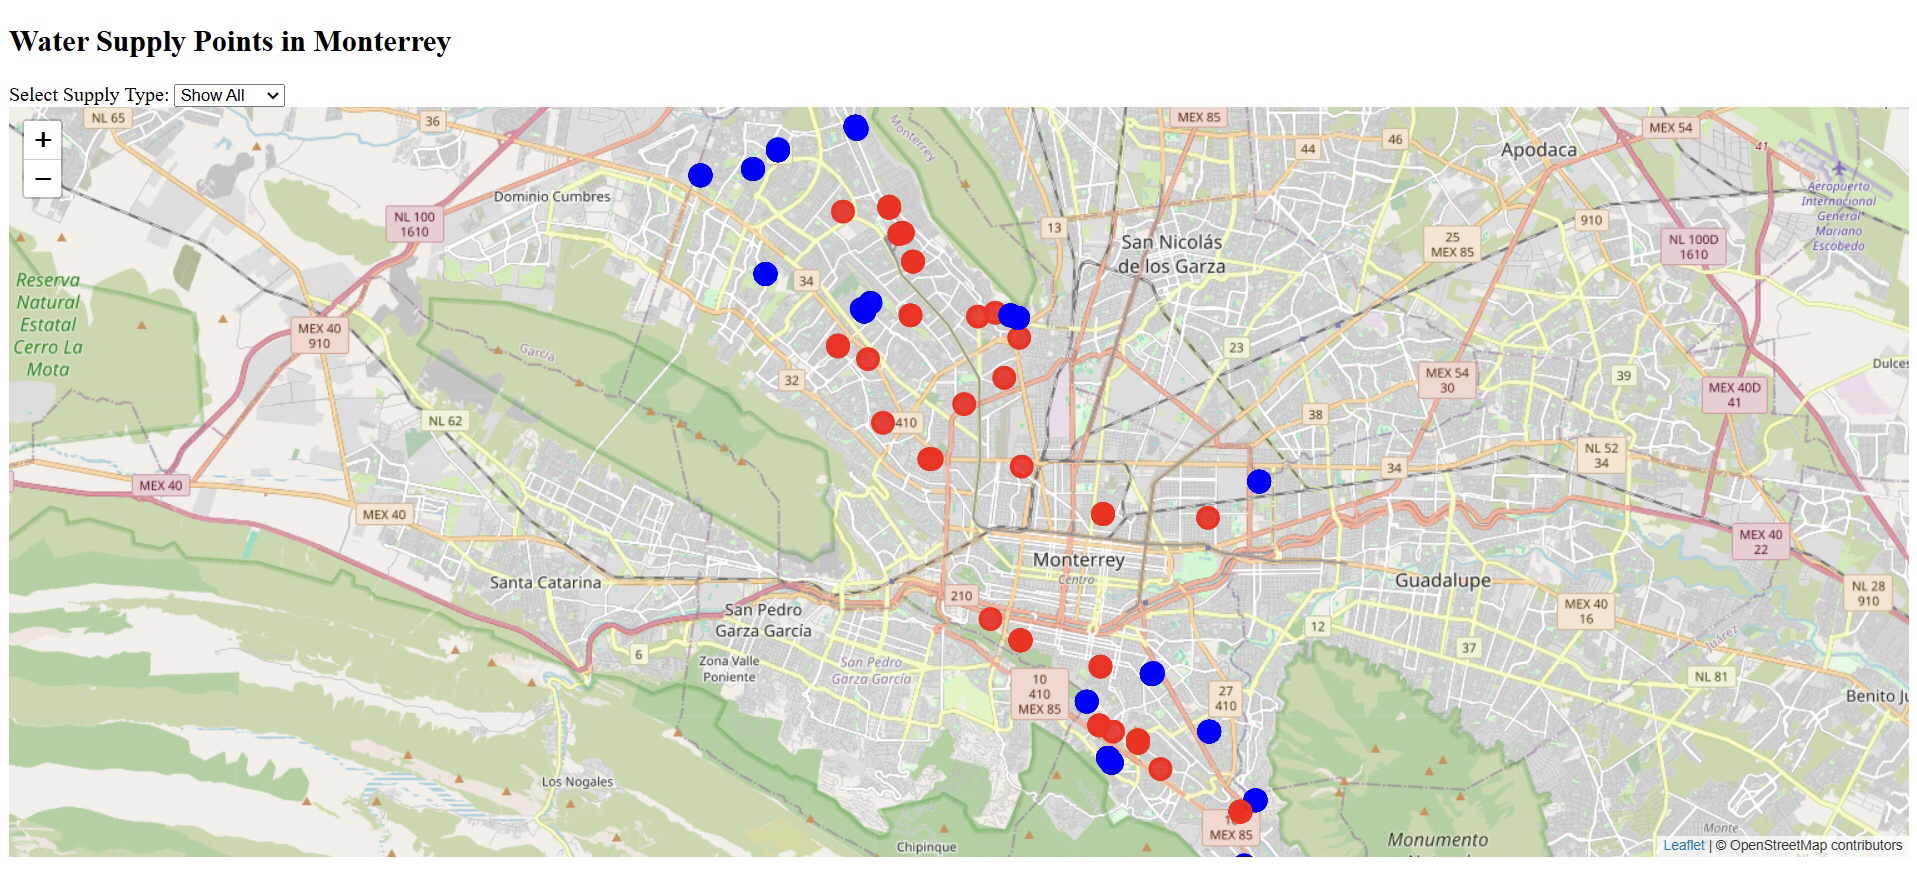
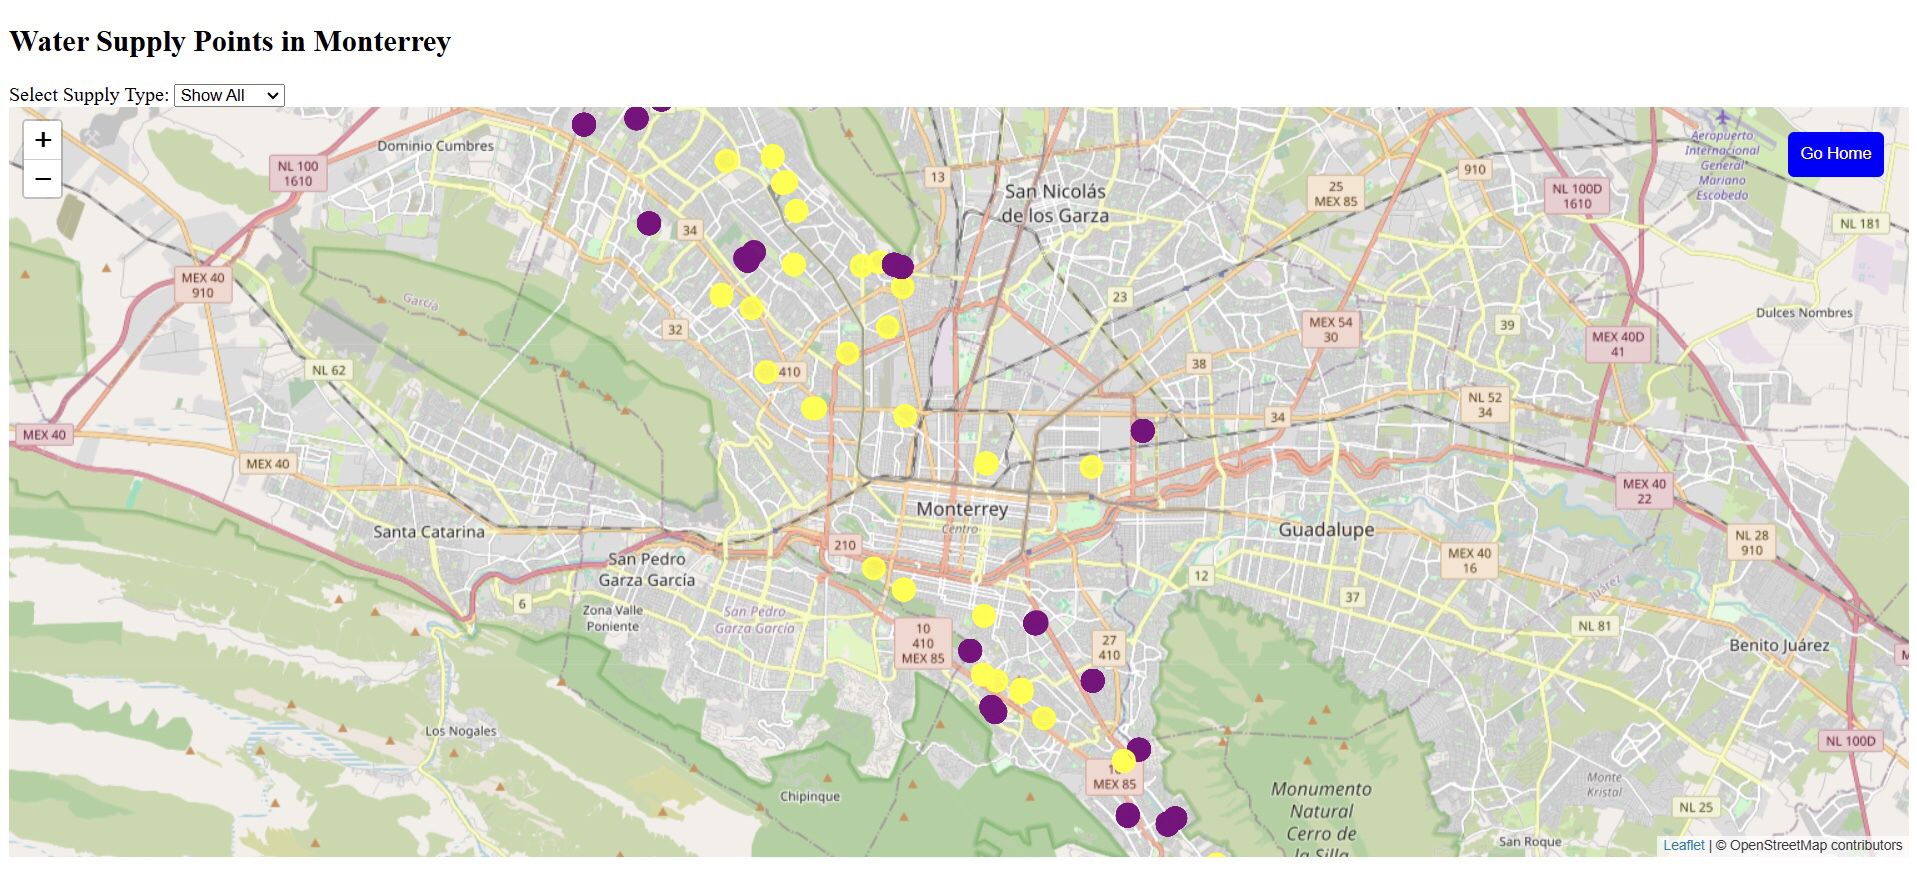
Adding a home page button and changing image and colors to the map

diff --git a/wst points/map_script.js b/wst points/map_script.js
@@ -9,8 +9,8 @@ L.tileLayer('https://{s}.tile.openstreetmap.org/{z}/{x}/{y}.png', {
 
 // Define colors for supply types
 const colors = {
-    'pipa': 'blue', 
-    'contenedor': 'red'
+    'pipa': 'purple', 
+    'contenedor': 'yellow'
 };
 
 // Dictionary to store markers by coordinate
@@ -89,3 +89,23 @@ document.getElementById("supplyFilter").addEventListener("change", function() {
 
 // Load CSV and add markers
 loadCSV();
+
+// Create a control for the home button
+const homeButton = L.control({ position: 'topright' });
+
+homeButton.onAdd = function () {
+    const div = L.DomUtil.create('div'); // Create a div for the button
+    const button = L.DomUtil.create('button', 'home-button'); // Create the button element
+    button.innerHTML = 'Go Home'; // Button text
+
+    // Add event listener to the button
+    button.onclick = function() {
+        window.location.href = '../index.html'; // Redirect to the main index page
+    };
+
+    div.appendChild(button); // Append the button to the div
+    return div; // Return the div containing the button
+};
+
+// Add the home button to the map
+homeButton.addTo(map);

diff --git a/wst points/index.html b/wst points/index.html
@@ -10,7 +10,8 @@
     <style>
         #map { height: 600px; width: 100%; }
         #filterBox { margin: 10px; padding: 5px; }
-    </style>
+        .home-button { margin: 10px; padding: 10px; background-color: blue; color: white; border: none; border-radius: 5px; cursor: pointer; }
+    </style> 
 </head>
 <body>
 
